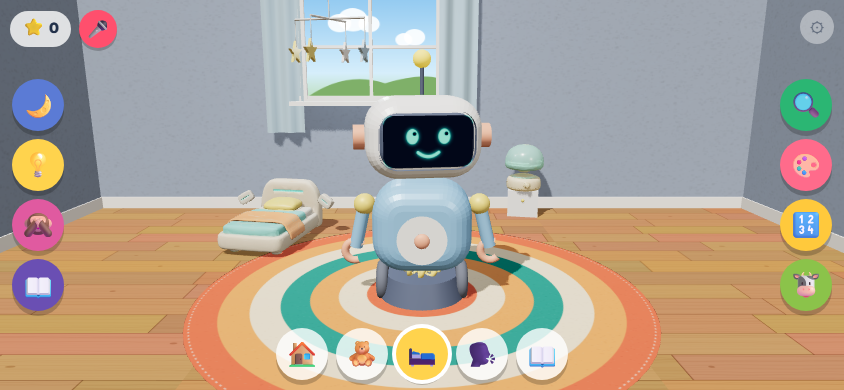
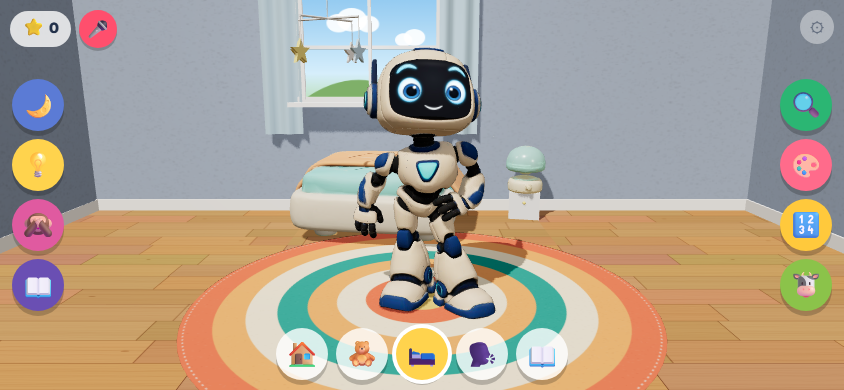
Props: big back-corner bed, smaller toys in front of Googoo, portrait framing 3% lower

diff --git a/index.html b/index.html
@@ -1174,12 +1174,13 @@ function makeFurniture(){
 makeFurniture();
 // Tripo GLB props (models/, real size: Googoo = 1) loaded lazily after start; each replaces its primitive group only once it has loaded, so a failed load keeps the old piece
 // id: [file, k, ry, x, z, lamp y]; scale = RB0.h (the primitive robot's height) * tweak (cow: new big toy, play room)
-const PROPS={bed:['bedroom_bed',.3,-.2,-.2,2.6],lamp:['bedroom_lamp',.7,0,2.4,-4.6,.62],teddy:['toy_teddy_bear',.7,.3],cow:['farm_cow',.38,-.5,2.0,-1.3]};
+const PROPS={bed:['bedroom_bed',.75,-.15,-.7,-4.9],lamp:['bedroom_lamp',.7,0,2.4,-4.6,.62],teddy:['toy_teddy_bear',.49,.3,-2.1,1.6],cow:['farm_cow',.27,-.4,2.1,1.6]};
 function loadProps(){if(!THREE.GLTFLoader)return;const ld=new THREE.GLTFLoader();
   for(const id in PROPS){const[f,k,ry,cx,cz,y]=PROPS[id];ld.load('models/'+f+'.glb',gl=>{try{
     const m=gl.scene,old=furnById(id);m.scale.setScalar(RB0.h*k);m.updateMatrixWorld(true);
     const g=new THREE.Group();g.add(m);
-    if(old)furnGroup.remove(old);addF(id,g,cx??old.userData.x0,cz??old.position.z,ry,old?old.userData.room:'play');if(y)g.position.y=y;
+    if(old)furnGroup.remove(old);addF(id,g,cx??old.userData.x0,cz??old.position.z,ry,old?old.userData.room:'play');if(y)g.position.y=y;if(id==='bed')g.remove(g.children[g.children.length-1]); // no padded tap box: the big bed's box would cover the lamp and nightstand in front of it
+    
     g.visible=g.userData.room===curRoom;
     if(id==='lamp'){const mt=g.userData.shade=gl.scene.getObjectByProperty('isMesh',true).material;mt.emissive=new THREE.Color(0xffc94d);mt.emissiveMap=mt.map;mt.emissiveIntensity=lightsOn?.15:.6;if(lampLight.parent)g.add(lampLight)}
     resize()}catch(e){console.warn('prop',id,e)}},0,e=>console.warn('prop',id,e))}}
@@ -1205,7 +1206,7 @@ async function tapFurniture(id){
   if(id==='chair'){await sayAsync('w_chair');pose={name:'sit',until:performance.now()+1500};setMode('game');say('x_beshin');await wait(1600);if(st.mode==='game'&&!game.type)setMode('idle');return}
   // new pieces: a little reaction, and Pash names it when there's a clip
   ({tv:()=>{tvMat.emissive.setHex(tvMat.emissive.getHex()?0:0x3a86ff);SFX.beep()},drum:()=>{tone(140,55,.3,'sine',.6);noise(.1,.3,900);jump(5)},
-    teddy:()=>{SFX.giggle();emit('heart',new THREE.Vector3(-1.9,1.8,-3.4),5,{size:.3,life:1.2,g:.5})},cow:()=>{SFX.giggle();emit('heart',furnById('cow').position.clone().setY(2.5),5,{size:.3,life:1.2,g:.5})},star:()=>{[1047,1319,1568].forEach((f,i)=>tone(f,f,.2,'triangle',.08,i*.15))}}[id]||SFX.boing)();
+    teddy:()=>{SFX.giggle();emit('heart',furnById('teddy').position.clone().setY(1.8),5,{size:.3,life:1.2,g:.5})},cow:()=>{SFX.giggle();emit('heart',furnById('cow').position.clone().setY(2.5),5,{size:.3,life:1.2,g:.5})},star:()=>{[1047,1319,1568].forEach((f,i)=>tone(f,f,.2,'triangle',.08,i*.15))}}[id]||SFX.boing)();
   setFace('shock',500);kick('squash',4);if(HAS.has('w_'+id)||FURN[id])await sayAsync('w_'+id);setFace('laugh',800);
 }
 function animateFurniture(t,dt){for(const g of furnGroup.children){const u=g.userData;
@@ -1470,7 +1471,6 @@ function measureRobot(){robot.updateMatrixWorld(true);const b=new THREE.Box3();i
 function resize(){const w=innerWidth,h=innerHeight,cards=scr==='say'||!deck.hidden,toys=itemsGroup.children.length>0;portrait=w<h;
   renderer.setPixelRatio(Math.min(devicePixelRatio,SMALL?1.5:2));renderer.setSize(w,h);camera.aspect=w/h;
   camera.fov=portrait?50:40;
-  const bd=furnById('bed');if(bd){bd.userData.x0=portrait?-.2:-3;bd.position.z=portrait?2.6:-2.6} // bed: on the floor in front of Googoo in portrait, beside him in landscape (he hides the middle)
   const sq=Math.min(1,(portrait?.3:.35)+w/h*.75);furnGroup.children.forEach(g=>g.position.x=g.userData.x0*sq); // portrait: pull furniture toward the middle so it stays on screen
   camera.clearViewOffset();
   // auto-fit: distance from his measured size so he spans top..bot of the screen, or fits the gap between the rails if that is narrower
@@ -1481,7 +1481,7 @@ function resize(){const w=innerWidth,h=innerHeight,cards=scr==='say'||!deck.hidd
   const hn=(P(0,RB.y0+RB.h).y-P(0,RB.y0).y)/2*h, y0=(1-P(0,RB.y0+RB.h).y)/2*h; // his current height and top edge in pixels
   if(portrait){ // upright: Googoo stands between the two rails, drops below the cards, or steps back for the toys
     const el=scr==='say'?document.getElementById('card'):deck,
-      [p,y]=cards?[new THREE.Vector3(0,GG?RB.y0+RB.h*.93:2.85,0),el.getBoundingClientRect().bottom+8]:toys?[new THREE.Vector3(0,0,1.9),h*.6-40]:[null,(top+bot)/2*h-hn/2];
+      [p,y]=cards?[new THREE.Vector3(0,GG?RB.y0+RB.h*.93:2.85,0),el.getBoundingClientRect().bottom+8]:toys?[new THREE.Vector3(0,0,1.9),h*.6-40]:[null,(top+bot)/2*h-hn/2+h*.03];
     if(p){p.project(camera);camera.setViewOffset(w,h,0,(1-p.y)/2*h-y,w,h)}else camera.setViewOffset(w,h,0,y0-y,w,h)}
   else camera.setViewOffset(w,h,cards?-w*.2:0,y0-((top+bot)/2*h-hn/2),w,h); // landscape; Say it / cards: robot moves aside for the card
   camera.updateProjectionMatrix()}

diff --git a/src_pash-robot.html b/src_pash-robot.html
@@ -1173,12 +1173,13 @@ function makeFurniture(){
 makeFurniture();
 // Tripo GLB props (models/, real size: Googoo = 1) loaded lazily after start; each replaces its primitive group only once it has loaded, so a failed load keeps the old piece
 // id: [file, k, ry, x, z, lamp y]; scale = RB0.h (the primitive robot's height) * tweak (cow: new big toy, play room)
-const PROPS={bed:['bedroom_bed',.3,-.2,-.2,2.6],lamp:['bedroom_lamp',.7,0,2.4,-4.6,.62],teddy:['toy_teddy_bear',.7,.3],cow:['farm_cow',.38,-.5,2.0,-1.3]};
+const PROPS={bed:['bedroom_bed',.75,-.15,-.7,-4.9],lamp:['bedroom_lamp',.7,0,2.4,-4.6,.62],teddy:['toy_teddy_bear',.49,.3,-2.1,1.6],cow:['farm_cow',.27,-.4,2.1,1.6]};
 function loadProps(){if(!THREE.GLTFLoader)return;const ld=new THREE.GLTFLoader();
   for(const id in PROPS){const[f,k,ry,cx,cz,y]=PROPS[id];ld.load('models/'+f+'.glb',gl=>{try{
     const m=gl.scene,old=furnById(id);m.scale.setScalar(RB0.h*k);m.updateMatrixWorld(true);
     const g=new THREE.Group();g.add(m);
-    if(old)furnGroup.remove(old);addF(id,g,cx??old.userData.x0,cz??old.position.z,ry,old?old.userData.room:'play');if(y)g.position.y=y;
+    if(old)furnGroup.remove(old);addF(id,g,cx??old.userData.x0,cz??old.position.z,ry,old?old.userData.room:'play');if(y)g.position.y=y;if(id==='bed')g.remove(g.children[g.children.length-1]); // no padded tap box: the big bed's box would cover the lamp and nightstand in front of it
+    
     g.visible=g.userData.room===curRoom;
     if(id==='lamp'){const mt=g.userData.shade=gl.scene.getObjectByProperty('isMesh',true).material;mt.emissive=new THREE.Color(0xffc94d);mt.emissiveMap=mt.map;mt.emissiveIntensity=lightsOn?.15:.6;if(lampLight.parent)g.add(lampLight)}
     resize()}catch(e){console.warn('prop',id,e)}},0,e=>console.warn('prop',id,e))}}
@@ -1204,7 +1205,7 @@ async function tapFurniture(id){
   if(id==='chair'){await sayAsync('w_chair');pose={name:'sit',until:performance.now()+1500};setMode('game');say('x_beshin');await wait(1600);if(st.mode==='game'&&!game.type)setMode('idle');return}
   // new pieces: a little reaction, and Pash names it when there's a clip
   ({tv:()=>{tvMat.emissive.setHex(tvMat.emissive.getHex()?0:0x3a86ff);SFX.beep()},drum:()=>{tone(140,55,.3,'sine',.6);noise(.1,.3,900);jump(5)},
-    teddy:()=>{SFX.giggle();emit('heart',new THREE.Vector3(-1.9,1.8,-3.4),5,{size:.3,life:1.2,g:.5})},cow:()=>{SFX.giggle();emit('heart',furnById('cow').position.clone().setY(2.5),5,{size:.3,life:1.2,g:.5})},star:()=>{[1047,1319,1568].forEach((f,i)=>tone(f,f,.2,'triangle',.08,i*.15))}}[id]||SFX.boing)();
+    teddy:()=>{SFX.giggle();emit('heart',furnById('teddy').position.clone().setY(1.8),5,{size:.3,life:1.2,g:.5})},cow:()=>{SFX.giggle();emit('heart',furnById('cow').position.clone().setY(2.5),5,{size:.3,life:1.2,g:.5})},star:()=>{[1047,1319,1568].forEach((f,i)=>tone(f,f,.2,'triangle',.08,i*.15))}}[id]||SFX.boing)();
   setFace('shock',500);kick('squash',4);if(HAS.has('w_'+id)||FURN[id])await sayAsync('w_'+id);setFace('laugh',800);
 }
 function animateFurniture(t,dt){for(const g of furnGroup.children){const u=g.userData;
@@ -1469,7 +1470,6 @@ function measureRobot(){robot.updateMatrixWorld(true);const b=new THREE.Box3();i
 function resize(){const w=innerWidth,h=innerHeight,cards=scr==='say'||!deck.hidden,toys=itemsGroup.children.length>0;portrait=w<h;
   renderer.setPixelRatio(Math.min(devicePixelRatio,SMALL?1.5:2));renderer.setSize(w,h);camera.aspect=w/h;
   camera.fov=portrait?50:40;
-  const bd=furnById('bed');if(bd){bd.userData.x0=portrait?-.2:-3;bd.position.z=portrait?2.6:-2.6} // bed: on the floor in front of Googoo in portrait, beside him in landscape (he hides the middle)
   const sq=Math.min(1,(portrait?.3:.35)+w/h*.75);furnGroup.children.forEach(g=>g.position.x=g.userData.x0*sq); // portrait: pull furniture toward the middle so it stays on screen
   camera.clearViewOffset();
   // auto-fit: distance from his measured size so he spans top..bot of the screen, or fits the gap between the rails if that is narrower
@@ -1480,7 +1480,7 @@ function resize(){const w=innerWidth,h=innerHeight,cards=scr==='say'||!deck.hidd
   const hn=(P(0,RB.y0+RB.h).y-P(0,RB.y0).y)/2*h, y0=(1-P(0,RB.y0+RB.h).y)/2*h; // his current height and top edge in pixels
   if(portrait){ // upright: Googoo stands between the two rails, drops below the cards, or steps back for the toys
     const el=scr==='say'?document.getElementById('card'):deck,
-      [p,y]=cards?[new THREE.Vector3(0,GG?RB.y0+RB.h*.93:2.85,0),el.getBoundingClientRect().bottom+8]:toys?[new THREE.Vector3(0,0,1.9),h*.6-40]:[null,(top+bot)/2*h-hn/2];
+      [p,y]=cards?[new THREE.Vector3(0,GG?RB.y0+RB.h*.93:2.85,0),el.getBoundingClientRect().bottom+8]:toys?[new THREE.Vector3(0,0,1.9),h*.6-40]:[null,(top+bot)/2*h-hn/2+h*.03];
     if(p){p.project(camera);camera.setViewOffset(w,h,0,(1-p.y)/2*h-y,w,h)}else camera.setViewOffset(w,h,0,y0-y,w,h)}
   else camera.setViewOffset(w,h,cards?-w*.2:0,y0-((top+bot)/2*h-hn/2),w,h); // landscape; Say it / cards: robot moves aside for the card
   camera.updateProjectionMatrix()}

diff --git a/sw.js b/sw.js
@@ -1,6 +1,6 @@
 // Googoo Robo service worker. tools/build.py rewrites the two versions below on every build:
 // a new page build = new shell cache, new/changed audio = new audio cache; old caches are deleted on activate.
-const SHELL_V='950391783c',AUDIO_V='92904cdb22',SHELL='googoo-shell-'+SHELL_V,AUDIO='googoo-audio-'+AUDIO_V;
+const SHELL_V='6041cc4a9a',AUDIO_V='92904cdb22',SHELL='googoo-shell-'+SHELL_V,AUDIO='googoo-audio-'+AUDIO_V;
 const PRE=['./','manifest.webmanifest','icons/icon-192.png','icons/icon-512.png','icons/apple-touch-icon.png','audio/manifest.json','vocab/stories.json',
   'https://cdnjs.cloudflare.com/ajax/libs/three.js/r128/three.min.js',
   'https://cdn.jsdelivr.net/npm/three@0.128.0/examples/js/loaders/GLTFLoader.js',

diff --git a/docs/HANDOFF.md b/docs/HANDOFF.md
@@ -8,7 +8,7 @@
 ### Open threads (where we stopped)
 1. **Phone layout: approved and built (2026-10-21, dev).** Small mic at the top left next to a star counter (correct answers from `stats`), gear alone at the top right; left rail = room actions (home: Feed, Dance, Sing, Lamp; play: Ball, Bubbles, Disco, Peek; bed: Sleep, Lamp, Peek/Stars, Night story), right rail = learning games (Find, Colour, Count, Animals) in every room; bottom = room tabs, with space left for a map tab. **The map comes later with the first outside place:** house rooms stay as tabs, outside places via a map button plus doors in the scene, places unlocking with stars. Buttons left off screen (code kept, in `#btns`): Jump, Moves, Dark. Tapping a body part now also says its Farsi word (`PART_WORD`). The speed, battery and installable-app parts of the earlier draft stay.
 1b. **Auto-fit camera and picture bubbles (2026-10-21, dev).** `resize()` frames Googoo from his measured size: `measureRobot()` reads his rest-pose box once (`RB`: h, w, y0) and sets the camera distance so he spans about 12%-82% of the height (portrait) or is fitted to the gap between the rails if that is narrower (today's chunky robot is width-limited, about 38% of the height). **When the Tripo model is swapped in, call `measureRobot()` again** (test: the loop resets `robot.scale` every frame, so move his children into a wrapper group, scale that to (0.6,1.6,0.6), then `measureRobot()`). Size knob `SIZE=.9` (user approved 90% on their phone, 2026-10-21): he is centred in that band at 90%, a tall model fills about 63% of the height. Don't pin his feet to the tabs: that shifts the whole room down and bares the top. Portrait rails (46px) sit at 47% height beside his body; they drop to the bottom only while a card deck or the Say it card is up. No text bubbles for the child: `say(k)` puts the word's picture on his face screen (`face='pic'`, `facePic`, drawn big in `drawFace`) and returns to the normal face when the clip ends; if the face is hidden (peek) or he sleeps, a tiny round picture bubble (`#pbub`) shows beside his head; lines with no picture (greetings, reactions) show nothing. Parent corner switch **Show words** (localStorage `pash-words`, off by default) shows a small Farsi-only caption (`#bubble`, no transliteration or English). Layout shots in `docs/layout-shots/v2-*.png`.
-1c. **Tripo props (2026-10-21, dev).** `models/*.glb` (bed, bedroom lamp, teddy, cow; real size, Googoo = 1, pivot bottom-centre, front +Z) are loaded lazily after start by `loadProps()` (classic r128 `GLTFLoader.js` from jsdelivr, also in the sw PRE list; `.glb` is cache-first in sw.js like audio). Scale = `RB.h * k`; the per-prop factor `k` and rotation live in `PROPS` (bed .3, lamp .7, teddy .7, cow .38; at k=1 they are far too big for this room). Each GLB replaces its primitive furniture group only after it loads (failure keeps the primitive), through `addF` so taps, `userData.furn` and the hitbox still work. Lamp: the GLB material is made emissive for `setLights`. The lamp stands on the nightstand; the bed sits on the floor in front of Googoo in portrait and beside him in landscape (set in `resize()`); the cow is a new toy-size play-room toy (front right of Googoo) that taps like the teddy and says `w_cow`.
+1c. **Tripo props (2026-10-21, dev).** `models/*.glb` (bed, bedroom lamp, teddy, cow; real size, Googoo = 1, pivot bottom-centre, front +Z) are loaded lazily after start by `loadProps()` (classic r128 `GLTFLoader.js` from jsdelivr, also in the sw PRE list; `.glb` is cache-first in sw.js like audio). Scale = `RB.h * k`; the per-prop factor `k` and rotation live in `PROPS` (bed .75, lamp .7, teddy .49, cow .27; at k=1 they are far too big for this room). Each GLB replaces its primitive furniture group only after it loads (failure keeps the primitive), through `addF` so taps, `userData.furn` and the hitbox still work. Lamp: the GLB material is made emissive for `setLights`. The lamp stands on the nightstand; the big bed is in the back-left corner; teddy and cow sit on the rug in front of Googoo, left and right of his feet; portrait framing is lowered 3% of the screen height that taps like the teddy and says `w_cow`.
 2. **Engine: prototype both** web (three.js) and Unity with the same small scene: the Tripo robot in the bedroom, lamp on/off, tap to react and dance, one whispered line with the face screen. Waiting on the user: (a) Unity Hub is installed; they sign in, pick the Personal licence, install the LTS editor with Android Build Support; (b) then add Unity's official Claude Code plugin (Anthropic Directory "Unity", beta) and check whether it can drive the editor; (c) buy Tripo (US$28 for one month), re-generate the robot as **Private** with multi-view (front, side and back images in `Downloads\Pash 3D\`), Generate in Parts on, about 30k polygons, export **GLB** to `Downloads\Pash 3D\`. The first Tripo result (free plan, public) looked good; its face is painted on, so cover it with our animated canvas face screen. Animate the rigid parts in code (no skinning). Pro Refine (a human fix, about $10) is not needed yet.
 3. **three.js upgrade (r128 -> current)** only after the phone layout is approved (needed for glTF-Transform, three-pathfinding etc.; switch to an import map).
 4. **Open world idea (agreed direction, not started):** keep the house as home base, then a small Persian neighbourhood: courtyard with a pool (حیاط، حوض) -> street (کوچه) -> fruit shop -> park -> farm (-> beach). Tap-to-walk plus a big picture map; no joystick. Props from Tripo in one style; KayKit (CC0) only if its style matches.
